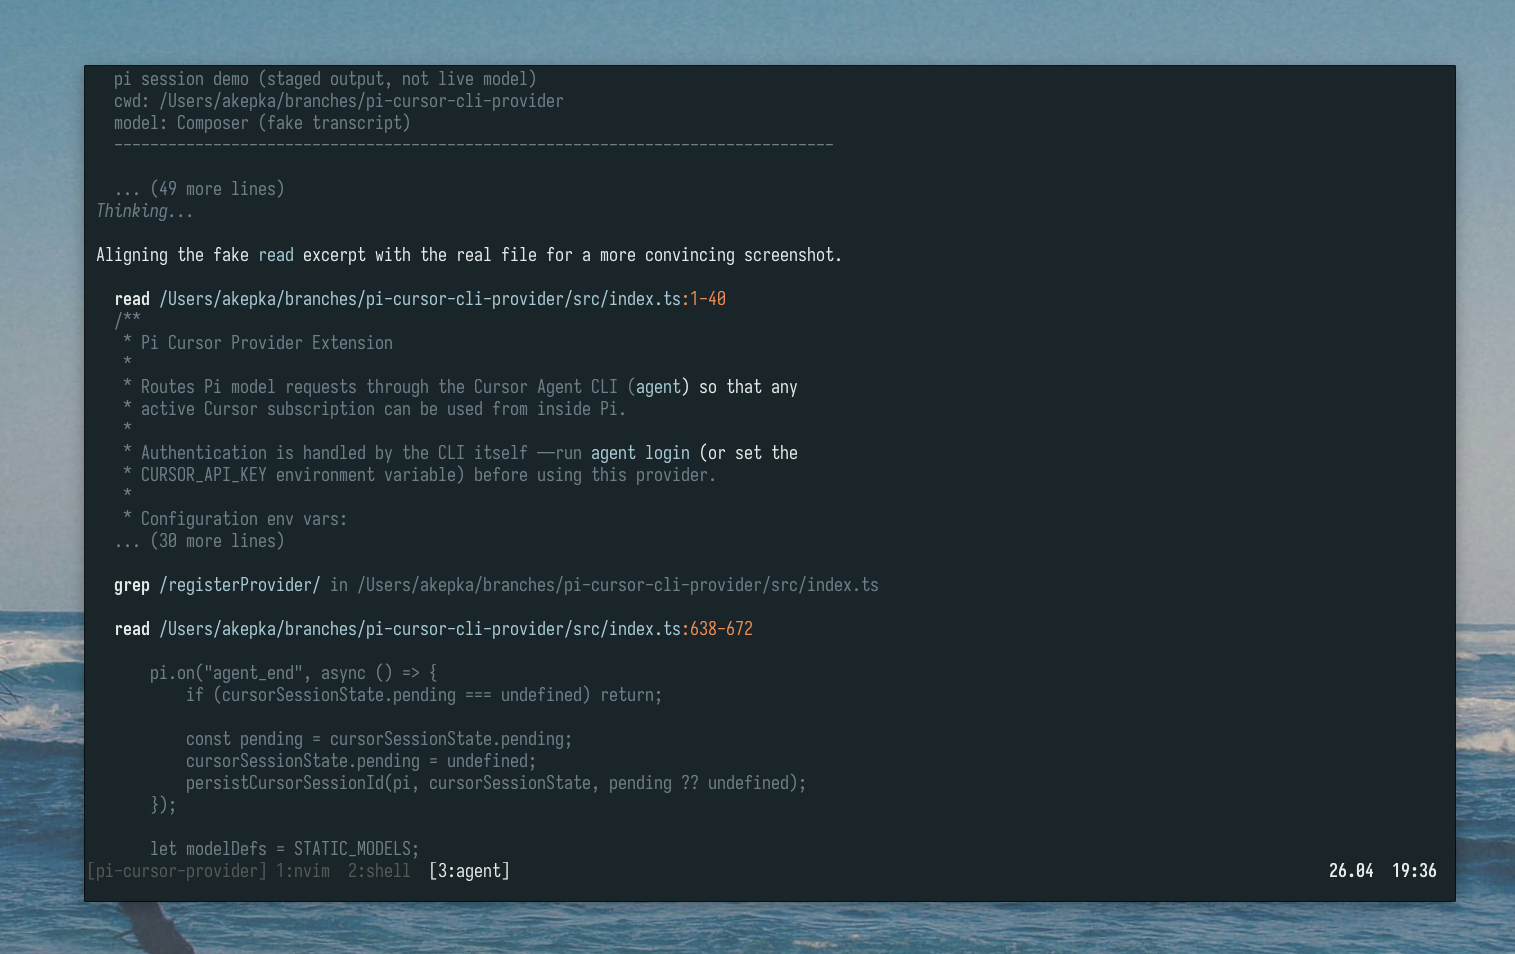
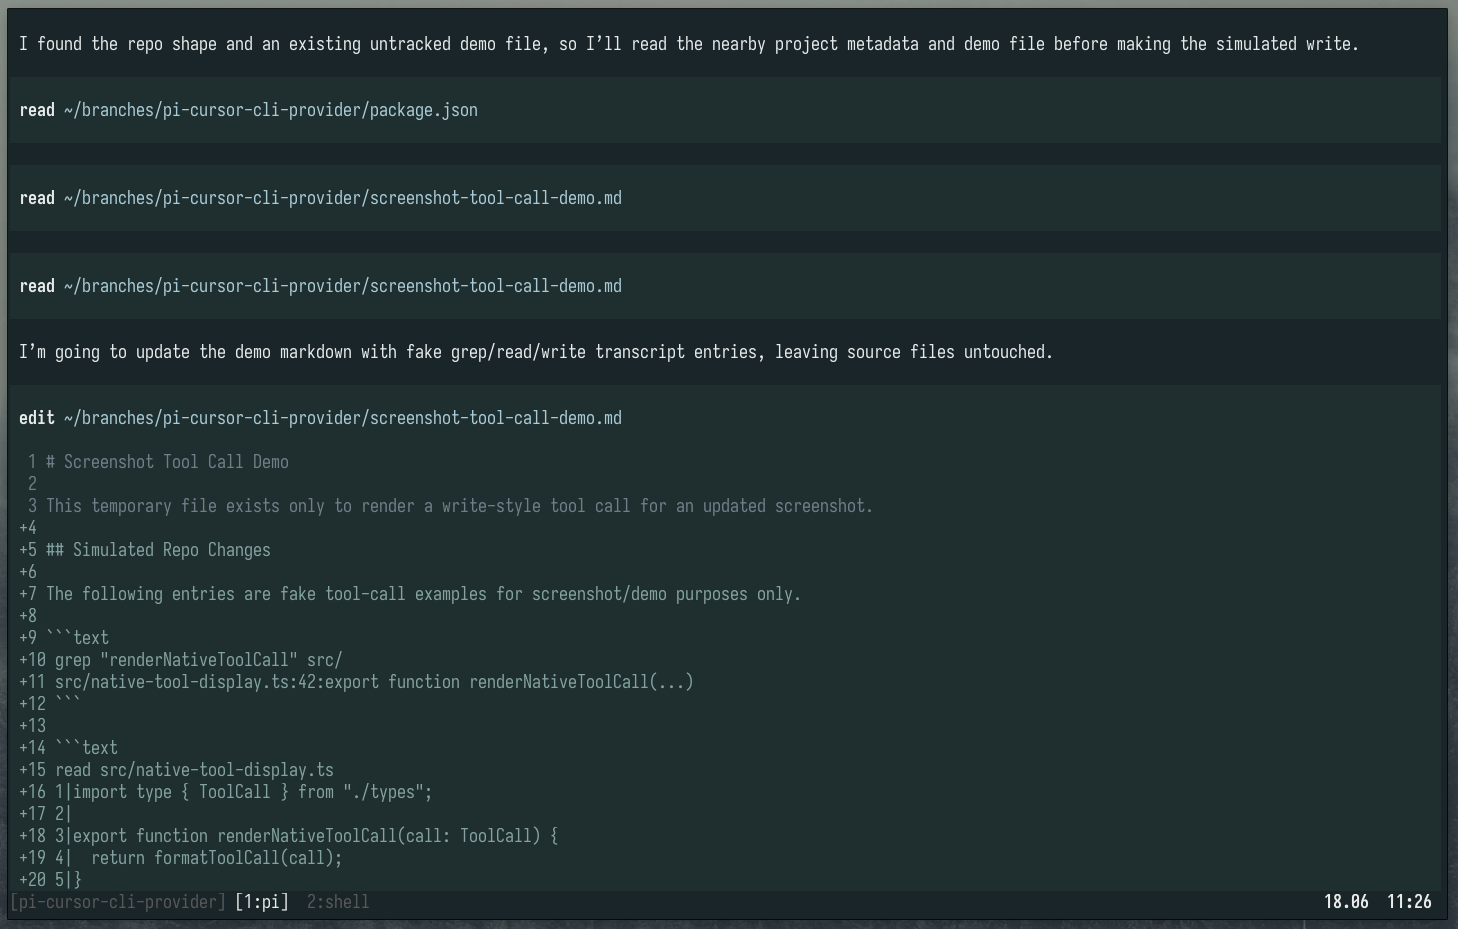
Update README and screenshot

Changed region(s): [[0.0, 0.0, 1.0, 1.0], [0.463, 0.5307, 0.5864, 0.5619]]

diff --git a/README.md b/README.md
@@ -165,19 +165,9 @@ Ensure `~/.cursor/cli-config.json` allows the MCP tools. For example:
 I do not know if this would actually be an improvement, but it is an idea I saw in the
 [rchern/pi-claude-cli](https://github.com/rchern/pi-claude-cli/) extension: when the CLI outputs a tool call, you kill
 the CLI, execute the tool call natively with Pi, and then resume the CLI session while providing the tool call results.
-This would fix the rendering problems mentioned above and also allow the use of Pi native tools instead of Cursor's
-built-in ones. I do not know, though, how well that would work in practice.
+This would allow the use of Pi native tools instead of Cursor's built-in ones. I do not know, though, how well that would work in practice.
 
 # Limitations
-
-### Tool calls are not rendered like Pi tool calls
-
-Tool calls are rendered like normal text. They are indented to distinguish them visually, at least a little bit, from
-assistant output, but we cannot render them like standard Pi tool calls. Emitting tool call events from the stream
-provider, so they would be rendered with the standard Pi UI, would result in Pi trying to execute these calls, because
-that is what the agentic loop expects - a model should output a tool call at the end and then break, waiting for the tool
-execution result to be returned. But by the time we are rendering the tool call, it has already been executed by Cursor
-CLI, and we also do not really want Pi to try to execute it, as this would result in double execution.
 
 ### Context/token counts are estimates
 